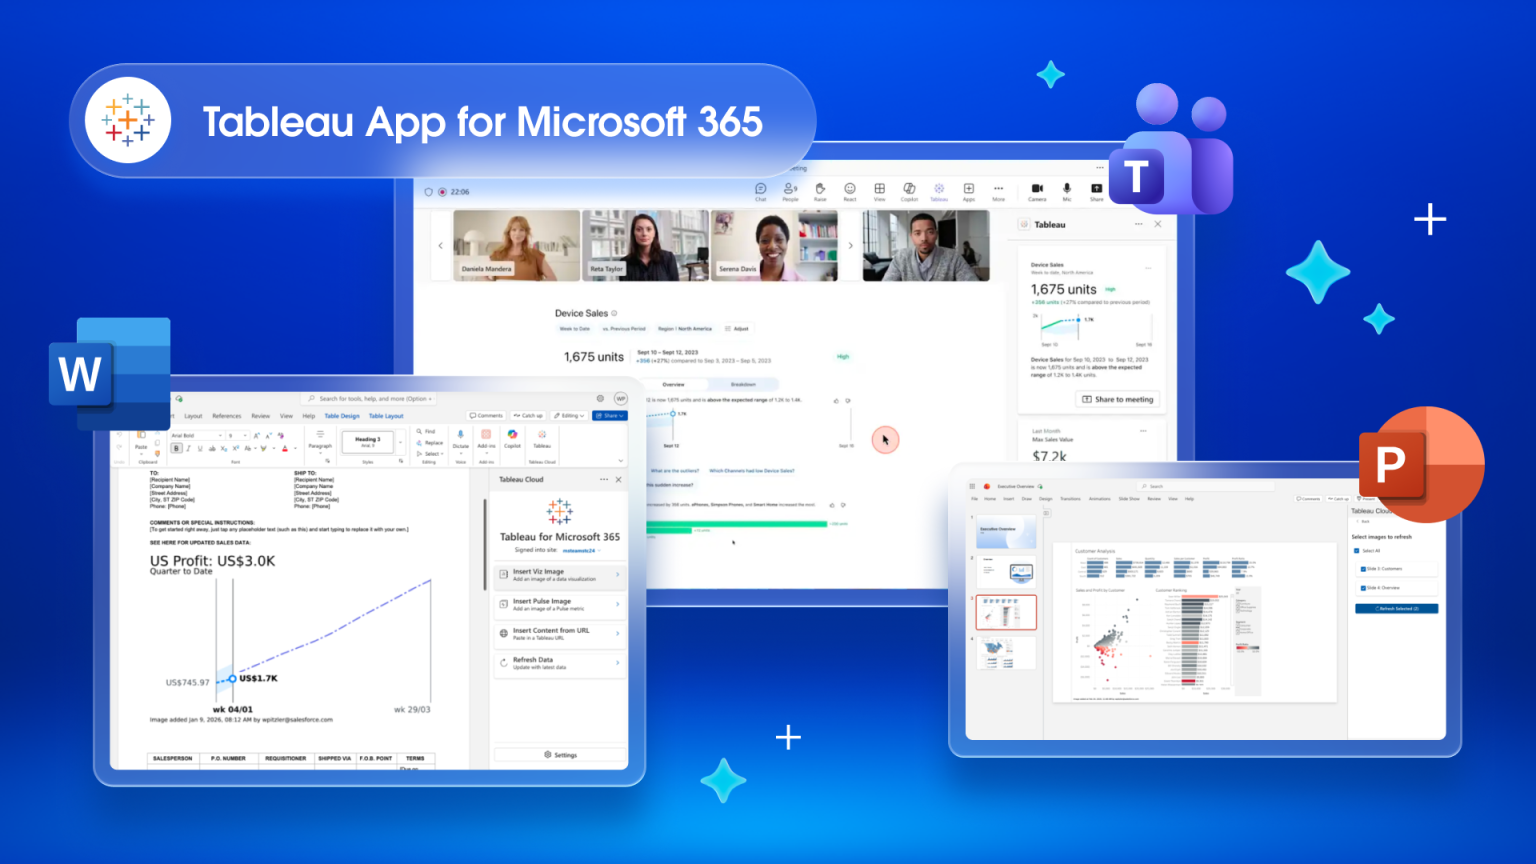
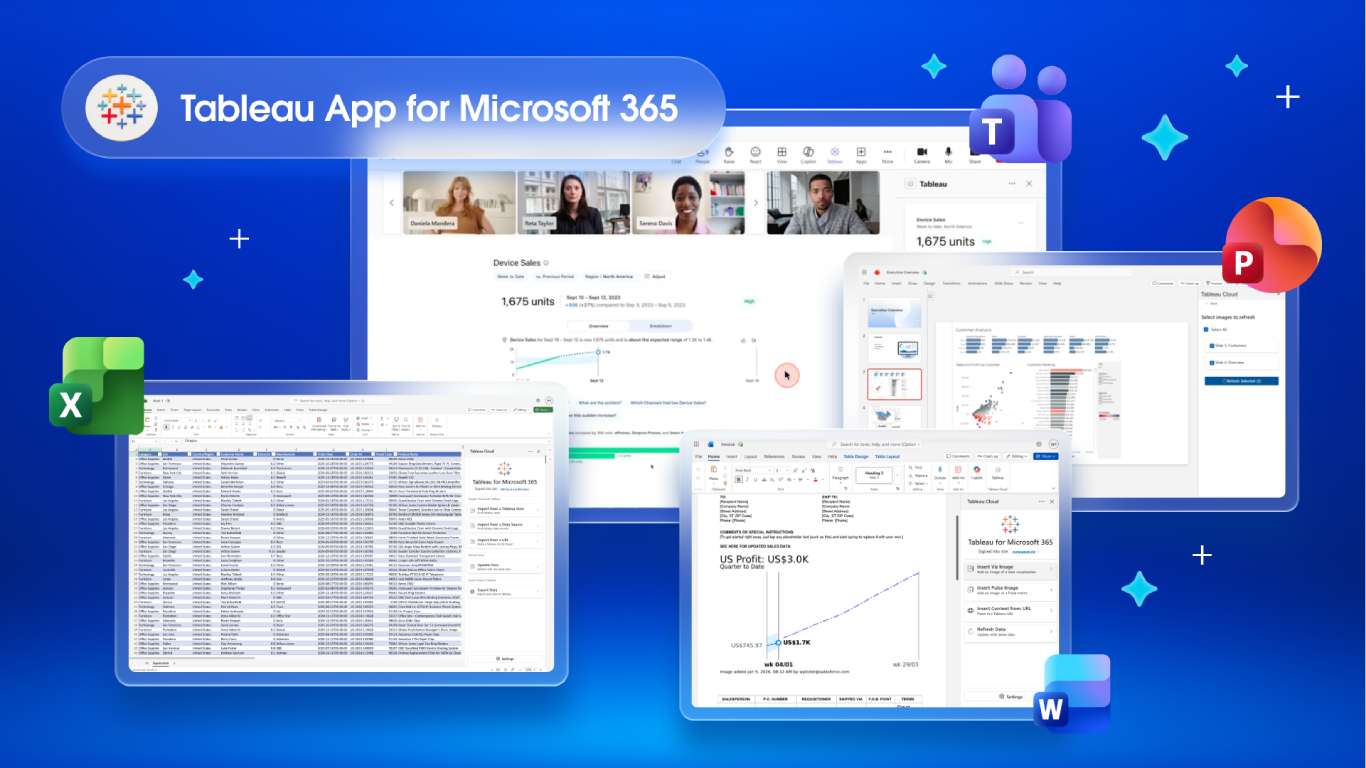
Update release notes for v2.1.0 Excel support

diff --git a/ReleaseNotes.md b/ReleaseNotes.md
@@ -7,6 +7,10 @@ A major release means updating the listing on the Microsoft Teams Marketplace.  
 #### Minor Release (ex. version 1.0.X)
 A minor release will include bug fixes and minor changes.  Since we're not adding new features or requesting new permissions, there is no need to updating the marketplace listing.  There is no need for customers to do anything for minor releases, the changes are automatically available.
 
+## Major Release: 2.1.0 - October 22, 2026
+
+* **Microsoft Excel support** - The Tableau Cloud app now appears in the ribbon within Excel. This enables users to easily import data from a Tableau view/datasource/dashboard into Excel, export data from Excel into a Tableau web authoring session, and refresh imported data.
+
 ## Minor Release: 2.0.1 - April 29, 2026
 * **New Pulse Preview Images** - There are several places within the Teams app and Office addin, where we render Pulse metrics as images.  These images have been updated to mirror how they appear in Tableau Cloud.
   
